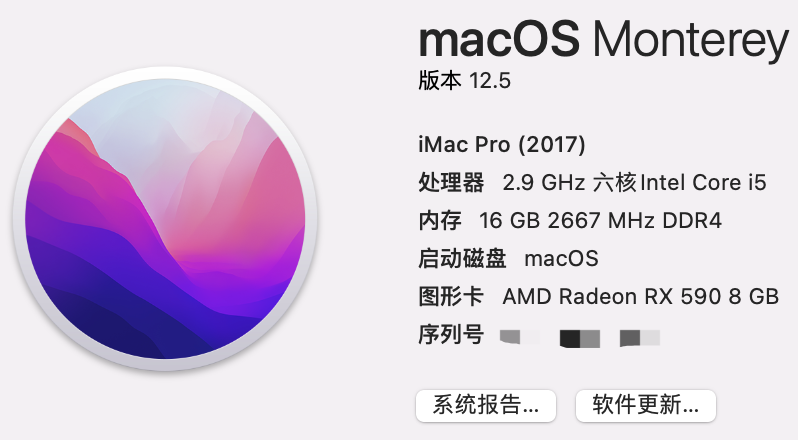
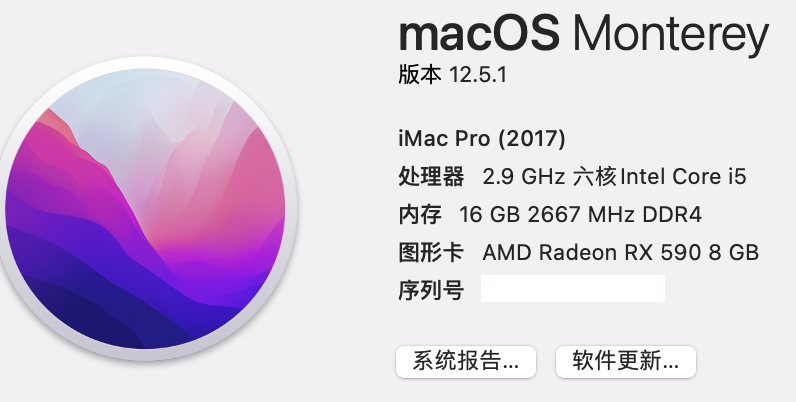
macOS 12.5.1

diff --git a/README.md b/README.md
@@ -26,9 +26,9 @@ Hackintosh OpenCore EFI</br>
 
 | EFI   | macOS   | OpenCore |    -       | 
 | ----- | ------- | :------: | :--------: |
-| 2.5   | 12.5    | 0.8.3    | 2022.08.05 |
+| 2.5   | 12.5 ~ 12.5.1      | 0.8.3      | 2022.08.05 |
 | 2.4   | 12.4    | 0.8.0    | 2022.05.17 |
-| 2.3   | 12.3.1<br>12.3     | 0.7.9      | 2022.03.15 |
+| 2.3   | 12.3 ~ 12.3.1      | 0.7.9      | 2022.03.15 |
 | 2.2.1 | 12.2.1  | 0.7.8    | 2022.02.14 |
 | 2.2   | 12.2    | 0.7.7    | 2022.01.28 |
 | 2.1   | 12.1    | 0.7.6    | 2021.12.14 |
